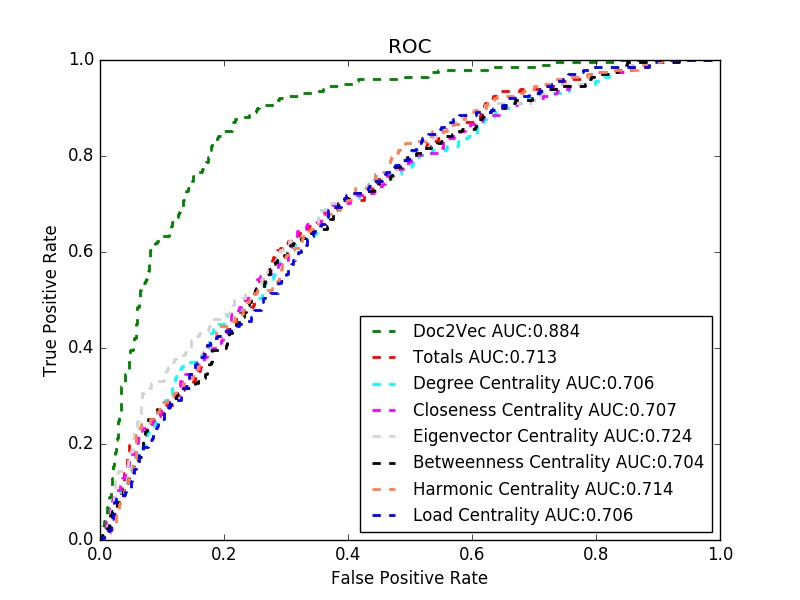
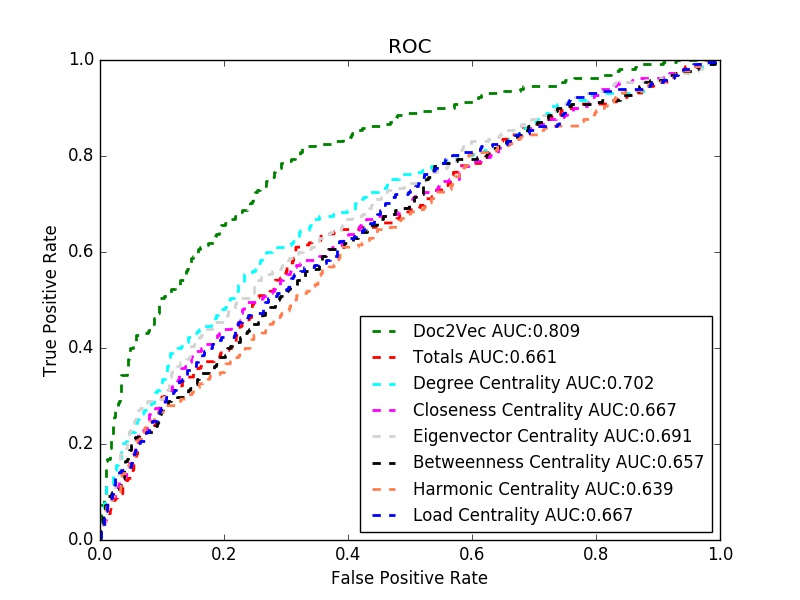
complete all

diff --git a/multi_source/dataloader2.py b/multi_source/dataloader2.py
@@ -2,9 +2,14 @@
 import numpy as np
 
 train_eval_rate = 0.8
+rate = 1
 
 
 class DataMaster(object):
+    '''
+    down-sampling with rate
+    '''
+
     def __init__(self):
         self.datasets = np.load('./data/protein_matrix.npy')
         self.dataembs = np.load('./data/protein_emb.npy')
@@ -17,7 +22,7 @@ class DataMaster(object):
 
         print("training data numbers(%d%%): %d" % (train_eval_rate * 100, len(self.datalabels)))
         self.pos_idx = (self.trainlabels == 1).reshape(-1)
-        self.neg_idx = (self.trainlabels == 0).reshape(-1)
+        self.neg_idx = (self.trainlabels == 0).reshape(-1)  # [:rate * len(self.pos_idx)]
         self.training_size = len(self.trainlabels[self.pos_idx]) * 2
         print("positive data numbers", str(self.training_size // 2))
 
@@ -28,11 +33,20 @@ class DataMaster(object):
         self.test_size = len(self.datalabels)
 
     def shuffle(self):
-        mark = list(range(self.training_size // 2))
+        mark = list(range(int(np.sum(self.neg_idx))))
+
         np.random.shuffle(mark)
-        self.train_X = np.concatenate([self.trainsets[self.pos_idx], self.trainsets[self.neg_idx][mark]])
-        self.train_E = np.concatenate([self.trainembs[self.pos_idx], self.trainembs[self.neg_idx][mark]])
-        self.train_Y = np.concatenate([self.trainlabels[self.pos_idx], self.trainlabels[self.neg_idx][mark]])
+
+        # print(len(self.trainsets))
+        # print(len(mark))
+        # print(len(self.trainsets[self.neg_idx]))  #
+
+        self.train_X = np.concatenate(
+            [self.trainsets[self.pos_idx], self.trainsets[self.neg_idx][mark][:self.training_size // 2]])
+        self.train_E = np.concatenate(
+            [self.trainembs[self.pos_idx], self.trainembs[self.neg_idx][mark][:self.training_size // 2]])
+        self.train_Y = np.concatenate(
+            [self.trainlabels[self.pos_idx], self.trainlabels[self.neg_idx][mark][:self.training_size // 2]])
         mark = list(range(self.training_size))
         np.random.shuffle(mark)
         self.train_X = self.train_X[mark]
@@ -41,4 +55,4 @@ class DataMaster(object):
 
 
 if __name__ == '__main__':
-    DataMaster()
+    DataMaster().shuffle()

diff --git a/no_sampling/data_preprocess.py b/no_sampling/data_preprocess.py
@@ -1,0 +1,55 @@
+# encoding=utf-8
+
+import pickle
+import numpy as np
+
+embedding_size = 64
+
+with open('./data/biogrid_dict.pkl', 'rb') as file:
+    biogrid_dict = pickle.load(file)
+biogrid_dict = {value: key for key, value in biogrid_dict.items()}
+
+emb_dict = dict()
+with open('./data/biogrid_network_bin2.emb') as file:
+    for line in file.readlines()[1:]:
+        columns = line.strip().split()
+        protein_id = columns[0]
+        protein_emb = columns[1:]
+        protein_name = biogrid_dict[protein_id]
+        emb_dict[protein_name] = protein_emb
+
+key_protein_set = set()
+with open('./data/essential_proteins.txt') as file:
+    for line in file.readlines():
+        key_protein = line.strip()
+        key_protein_set.add(key_protein)
+
+protein_matrix = []
+protein_label = []
+protein_emb = []
+with open('./data/GSE3431_T36.txt') as file:
+    for line in file.readlines():
+        columns = line.strip().split()
+        protein_name = columns[0]
+        features = columns[1:]
+        assert len(features) == 36
+
+        if protein_name in emb_dict:
+            protein_matrix.append(features)
+            protein_emb.append(emb_dict[protein_name])
+            if protein_name in key_protein_set:
+                protein_label.append(1)  # 1266
+            else:
+                protein_label.append(0)  # 5510
+
+protein_matrix = np.array(protein_matrix).reshape(-1, 3, 12)
+np.save('./data/protein_matrix.npy', protein_matrix)
+print(protein_matrix.shape)
+
+protein_emb = np.array(protein_emb)
+np.save('./data/protein_emb.npy', protein_emb)
+print(protein_emb.shape)
+
+protein_label = np.array(protein_label).reshape(-1, 1)
+np.save('./data/protein_label.npy', protein_label)
+print(protein_label.shape)

diff --git a/no_sampling/dataloader.py b/no_sampling/dataloader.py
@@ -2,9 +2,14 @@
 import numpy as np
 
 train_eval_rate = 0.8
+rate = 1
 
 
 class DataMaster(object):
+    '''
+    down-sampling with rate
+    '''
+
     def __init__(self):
         self.datasets = np.load('./data/protein_matrix.npy')
         self.dataembs = np.load('./data/protein_emb.npy')
@@ -15,9 +20,9 @@ class DataMaster(object):
         self.trainembs = self.dataembs[:int(train_eval_rate * len(self.dataembs))]
         self.trainlabels = self.datalabels[:int(train_eval_rate * len(self.datalabels))]
 
-        print("training data numbers(%d%%): %d" % (train_eval_rate * 100, len(self.datalabels)))
+        print("training data numbers(%d%%): %d" % (train_eval_rate * 100, len(self.trainlabels)))
         self.pos_idx = (self.trainlabels == 1).reshape(-1)
-        self.neg_idx = (self.trainlabels == 0).reshape(-1)
+        self.neg_idx = (self.trainlabels == 0).reshape(-1)  # [:rate * len(self.pos_idx)]
         self.training_size = len(self.trainlabels[self.pos_idx]) * 2
         print("positive data numbers", str(self.training_size // 2))
 
@@ -28,7 +33,8 @@ class DataMaster(object):
         self.test_size = len(self.datalabels)
 
     def shuffle(self):
-        mark = list(range(self.training_size // 2))
+        rate = 2
+        mark = list(range(int(rate * self.training_size) // 2))
         np.random.shuffle(mark)
         self.train_X = np.concatenate([self.trainsets[self.pos_idx], self.trainsets[self.neg_idx][mark]])
         self.train_E = np.concatenate([self.trainembs[self.pos_idx], self.trainembs[self.neg_idx][mark]])
@@ -41,4 +47,4 @@ class DataMaster(object):
 
 
 if __name__ == '__main__':
-    DataMaster()
+    DataMaster().shuffle()

diff --git a/net_centrality/dataloader2.py b/net_centrality/dataloader2.py
@@ -7,7 +7,7 @@ train_eval_rate = 0.8
 class DataMaster(object):
     def __init__(self):
         self.datasets = np.load('./data/protein_matrix.npy')
-        self.dataembs = np.load('./data/protein_emb.npy')
+        self.dataembs = np.load('./data/protein_centrality.npy')[:, 5:6]
         self.datalabels = np.load('./data/protein_label.npy')
 
         self.trainsets = self.datasets[
@@ -28,11 +28,19 @@ class DataMaster(object):
         self.test_size = len(self.datalabels)
 
     def shuffle(self):
-        mark = list(range(self.training_size // 2))
+        mark = list(range(int(np.sum(self.neg_idx))))
         np.random.shuffle(mark)
-        self.train_X = np.concatenate([self.trainsets[self.pos_idx], self.trainsets[self.neg_idx][mark]])
-        self.train_E = np.concatenate([self.trainembs[self.pos_idx], self.trainembs[self.neg_idx][mark]])
-        self.train_Y = np.concatenate([self.trainlabels[self.pos_idx], self.trainlabels[self.neg_idx][mark]])
+
+        print(len(self.trainsets))
+        print(len(mark))
+        print(len(self.trainsets[self.neg_idx]))  #
+
+        self.train_X = np.concatenate(
+            [self.trainsets[self.pos_idx], self.trainsets[self.neg_idx][mark][:self.training_size // 2]])
+        self.train_E = np.concatenate(
+            [self.trainembs[self.pos_idx], self.trainembs[self.neg_idx][mark][:self.training_size // 2]])
+        self.train_Y = np.concatenate(
+            [self.trainlabels[self.pos_idx], self.trainlabels[self.neg_idx][mark][:self.training_size // 2]])
         mark = list(range(self.training_size))
         np.random.shuffle(mark)
         self.train_X = self.train_X[mark]

diff --git a/topology/dataloader.py b/topology/dataloader.py
@@ -9,8 +9,8 @@ class DataMaster(object):
         self.dataembs = np.load('./data/protein_emb.npy')
         self.datalabels = np.load('./data/protein_label.npy')
 
-        self.dataembs = self.dataembs[:int(train_eval_rate * len(self.dataembs))]
-        self.datalabels = self.datalabels[:int(train_eval_rate * len(self.datalabels))]
+        self.traindata = self.dataembs[:int(train_eval_rate * len(self.dataembs))]
+        self.trainlabels = self.datalabels[:int(train_eval_rate * len(self.datalabels))]
 
         print("training data numbers(%d%%): %d" % (train_eval_rate * 100, len(self.datalabels)))
         self.pos_idx = (self.datalabels == 1).reshape(-1)
@@ -26,8 +26,8 @@ class DataMaster(object):
     def shuffle(self):
         mark = list(range(self.training_size // 2))
         np.random.shuffle(mark)
-        self.train_E = np.concatenate([self.dataembs[self.pos_idx], self.dataembs[self.neg_idx][mark]])
-        self.train_Y = np.concatenate([self.datalabels[self.pos_idx], self.datalabels[self.neg_idx][mark]])
+        self.train_E = np.concatenate([self.traindata[self.pos_idx], self.traindata[self.neg_idx][mark]])
+        self.train_Y = np.concatenate([self.trainlabels[self.pos_idx], self.trainlabels[self.neg_idx][mark]])
         mark = list(range(self.training_size))
         np.random.shuffle(mark)
         self.train_E = self.train_E[mark]

diff --git a/net_centrality/data_preprocess.py b/net_centrality/data_preprocess.py
@@ -63,13 +63,13 @@ with open('../data/GSE3431_T36.txt') as file:
             protein_emb.append(emb_dict[protein_name])
             id = int(biogrid_dict[protein_name])
             centrality_list = []
-            centrality_list.append(degree_centrality[id])
-            centrality_list.append(closeness_centrality[id])
-            centrality_list.append(eigenvector_centrality[id])
-            centrality_list.append(betweenness_centrality[id])
-            centrality_list.append(harmonic_centrality[id])
-            centrality_list.append(load_centrality[id])
-            centrality_list.append(subgraph_centrality[id])
+            centrality_list.append(degree_centrality[id])  # 0
+            centrality_list.append(closeness_centrality[id])  # 1
+            centrality_list.append(eigenvector_centrality[id])  # 2
+            centrality_list.append(betweenness_centrality[id])  # 3
+            centrality_list.append(harmonic_centrality[id])  # 4
+            centrality_list.append(load_centrality[id])  # 5
+            centrality_list.append(subgraph_centrality[id])  # delete
             protein_centrality.append(centrality_list)
             print(centrality_list)
             if protein_name in key_protein_set:

diff --git a/no_sampling/main.py b/no_sampling/main.py
@@ -1,7 +1,7 @@
 # encoding=utf-8
 import os
 
-import dataloader2
+import dataloader
 import numpy as np
 import tensorflow as tf
 from protein_cnn import CnnModel
@@ -11,7 +11,7 @@ import pickle
 # LD_LIBRARY_PATH	/usr/local/cuda-8.0/lib64:$LD_LIBRARY_PATH
 os.environ["CUDA_VISIBLE_DEVICES"] = "2"
 
-loader = dataloader2.DataMaster()
+loader = dataloader.DataMaster()
 
 batch_size = 32
 # batch_size = 32
@@ -21,7 +21,7 @@ epoch_num_cnn = 40
 
 # keep_pro = 0.9
 keep_pro = 0.95
-init_learning_rate = 0.001
+init_learning_rate = 0.005
 
 # decay_rate = 0.95
 decay_rate = 0.96
@@ -85,5 +85,5 @@ with tf.Session() as sess:
                 print("auc_socre %.6f" % metrics.auc(fpr, tpr))
 
         c = validataion()
-    with open('../plot_cache/multi_source.pkl', mode='wb') as file:
+    with open('../plot_cache/multi_source_1_2.pkl', mode='wb') as file:
         pickle.dump(c, file)

diff --git a/net_centrality/main.py b/net_centrality/main.py
@@ -1,7 +1,7 @@
 # encoding=utf-8
 import os
 
-import dataloader
+import dataloader2
 import numpy as np
 import tensorflow as tf
 from protein_cnn import CnnModel
@@ -11,7 +11,7 @@ import pickle
 # LD_LIBRARY_PATH	/usr/local/cuda-8.0/lib64:$LD_LIBRARY_PATH
 os.environ["CUDA_VISIBLE_DEVICES"] = "2"
 
-loader = dataloader.DataMaster()
+loader = dataloader2.DataMaster()
 
 batch_size = 32
 
@@ -80,5 +80,5 @@ with tf.Session() as sess:
                 print("auc_socre %.6f" % metrics.auc(fpr, tpr))
 
         c = validataion()
-    with open('../plot_cache/total6.pkl', mode='wb') as file:
+    with open('../plot_cache/load_centrality.pkl', mode='wb') as file:
         pickle.dump(c, file)

diff --git a/net_centrality/protein_cnn.py b/net_centrality/protein_cnn.py
@@ -7,11 +7,15 @@ import numpy as np
 
 time_steps = 12
 channel_size = 3
-embedding_size = 6
-embedding_fn_size = 256
-filter_num = 64
+embedding_size = 1
+# embedding_fn_size = 256
+embedding_fn_size = 312
+
+# filter_num = 64
+filter_num = 8
 
 # fixed size 3
+# filter_sizes = [1, 3, 5]
 filter_sizes = [1, 3, 5]
 threshold = 0.6
 

diff --git a/no_sampling/__init__.py b/no_sampling/__init__.py
@@ -1,0 +1,6 @@
+# encoding=utf-8
+
+
+
+if __name__ == '__main__':
+    pass
